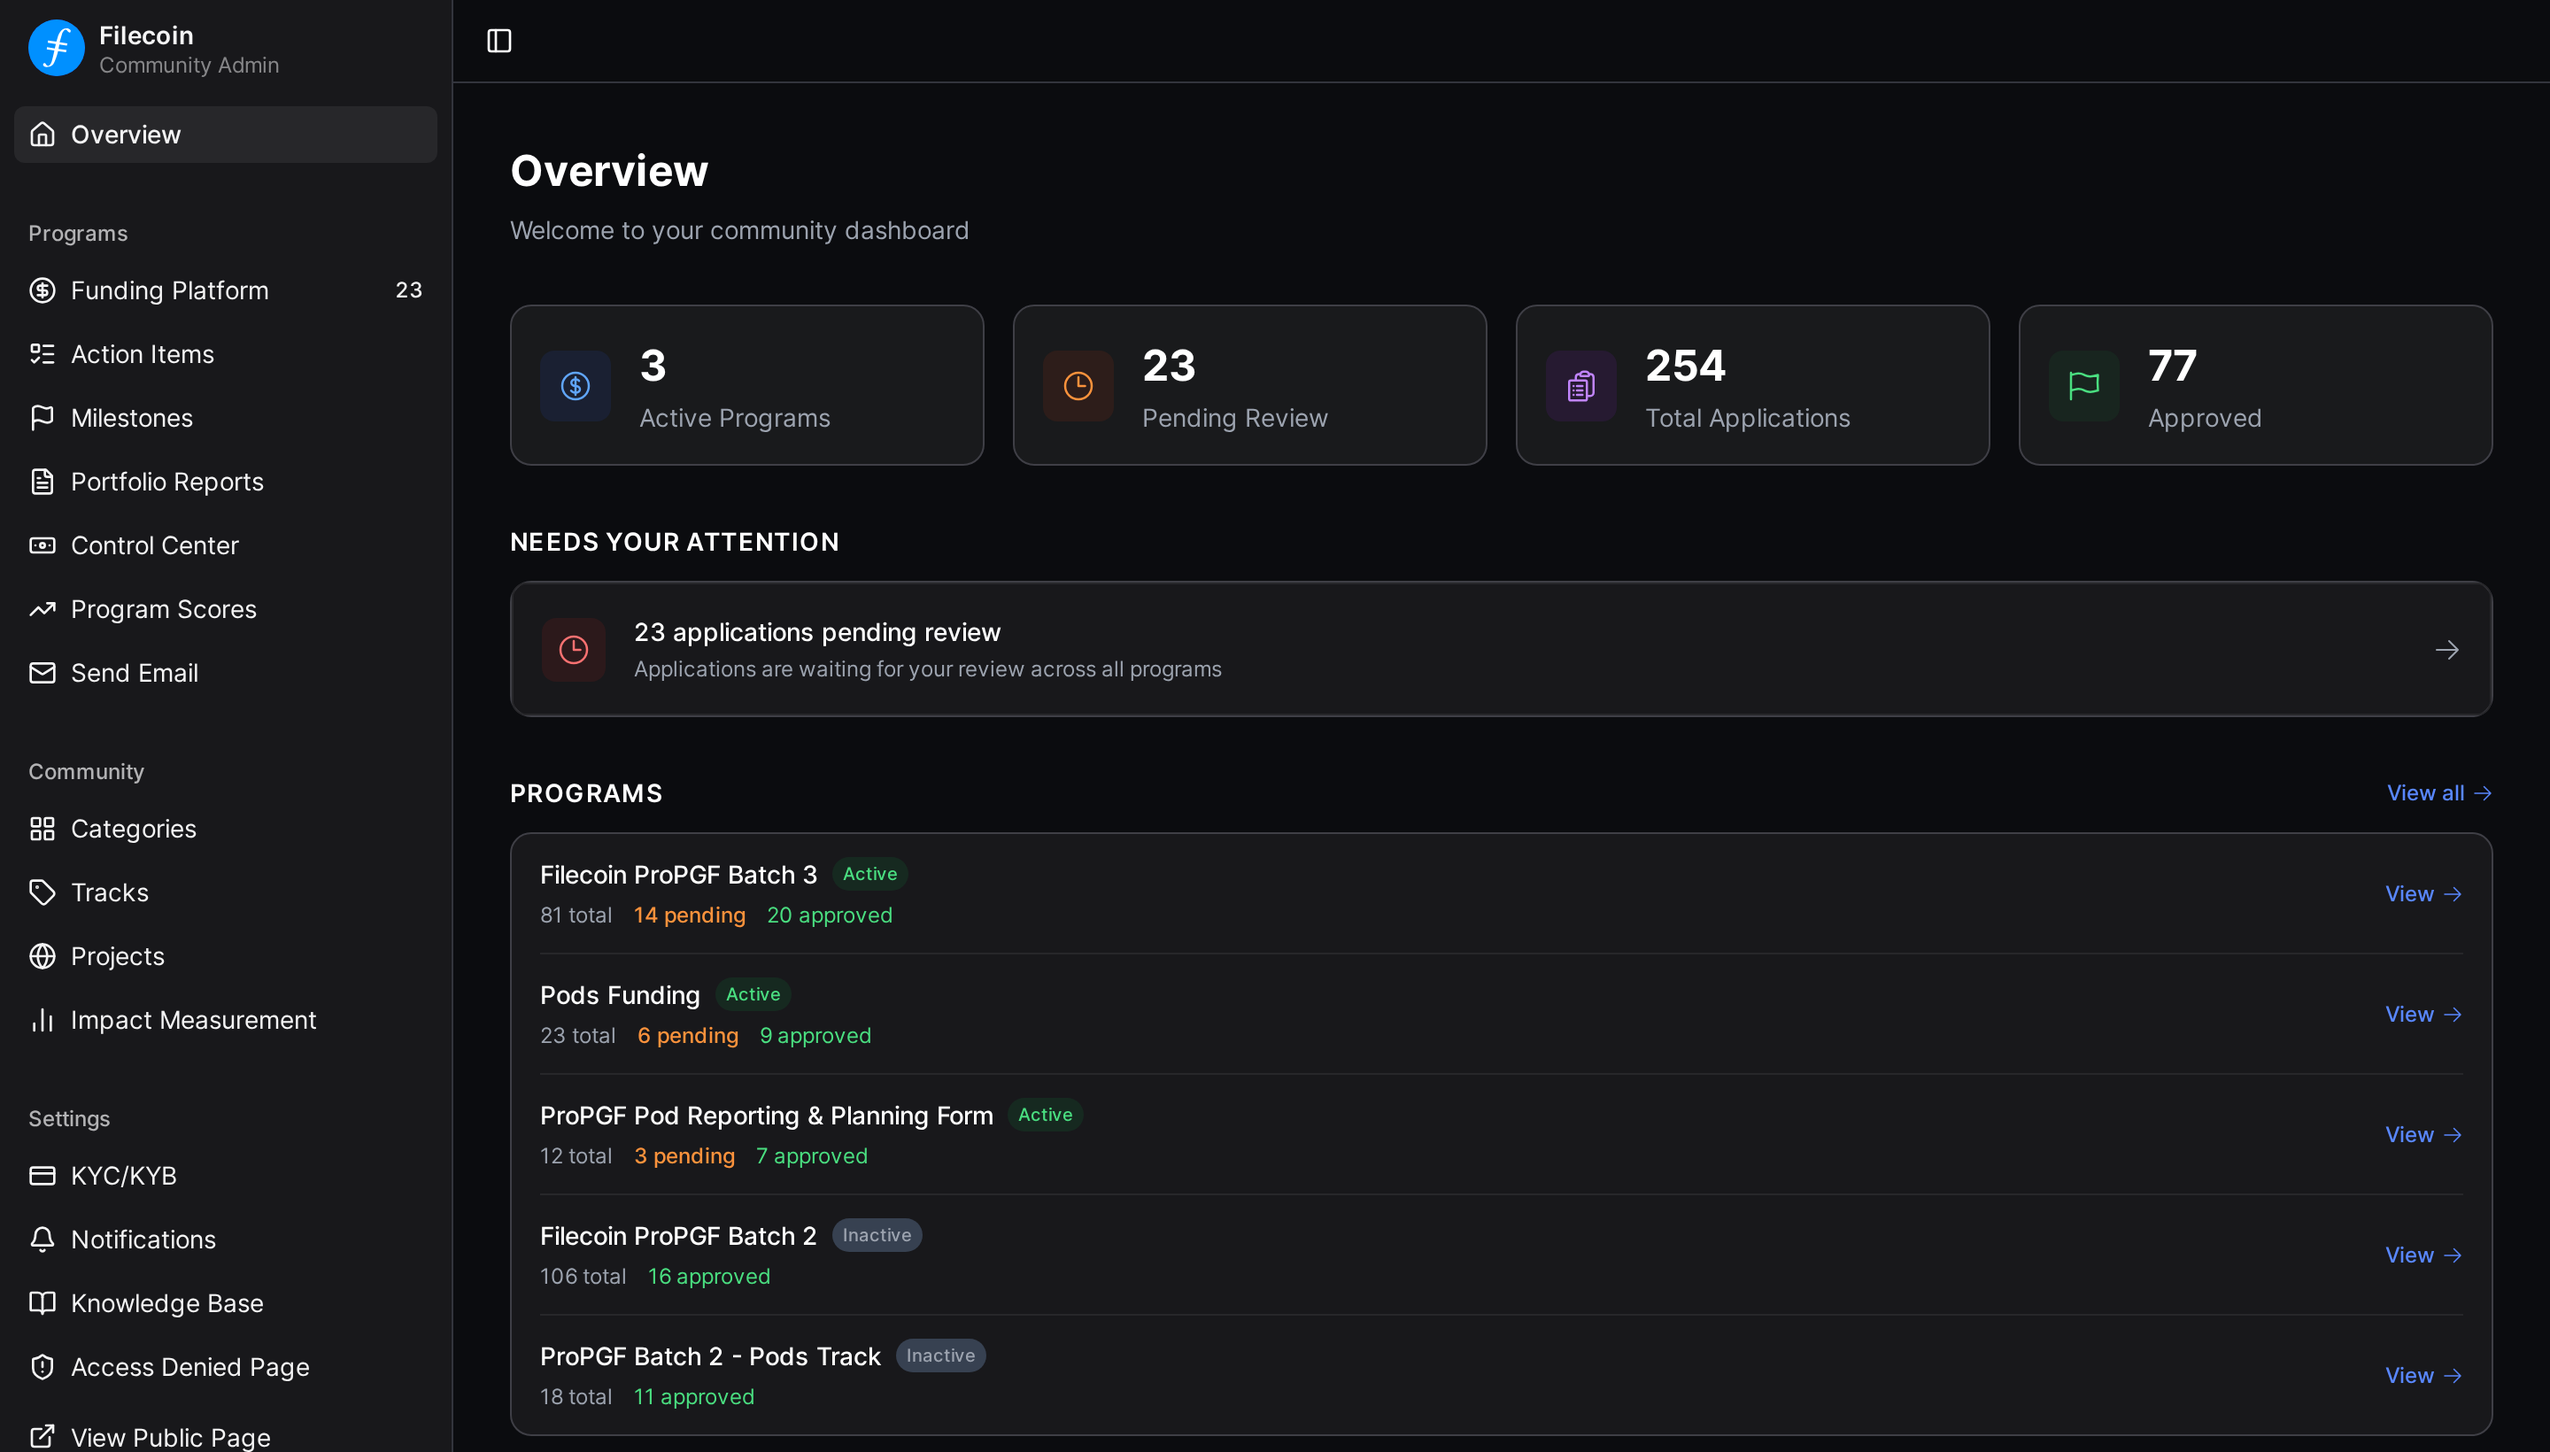
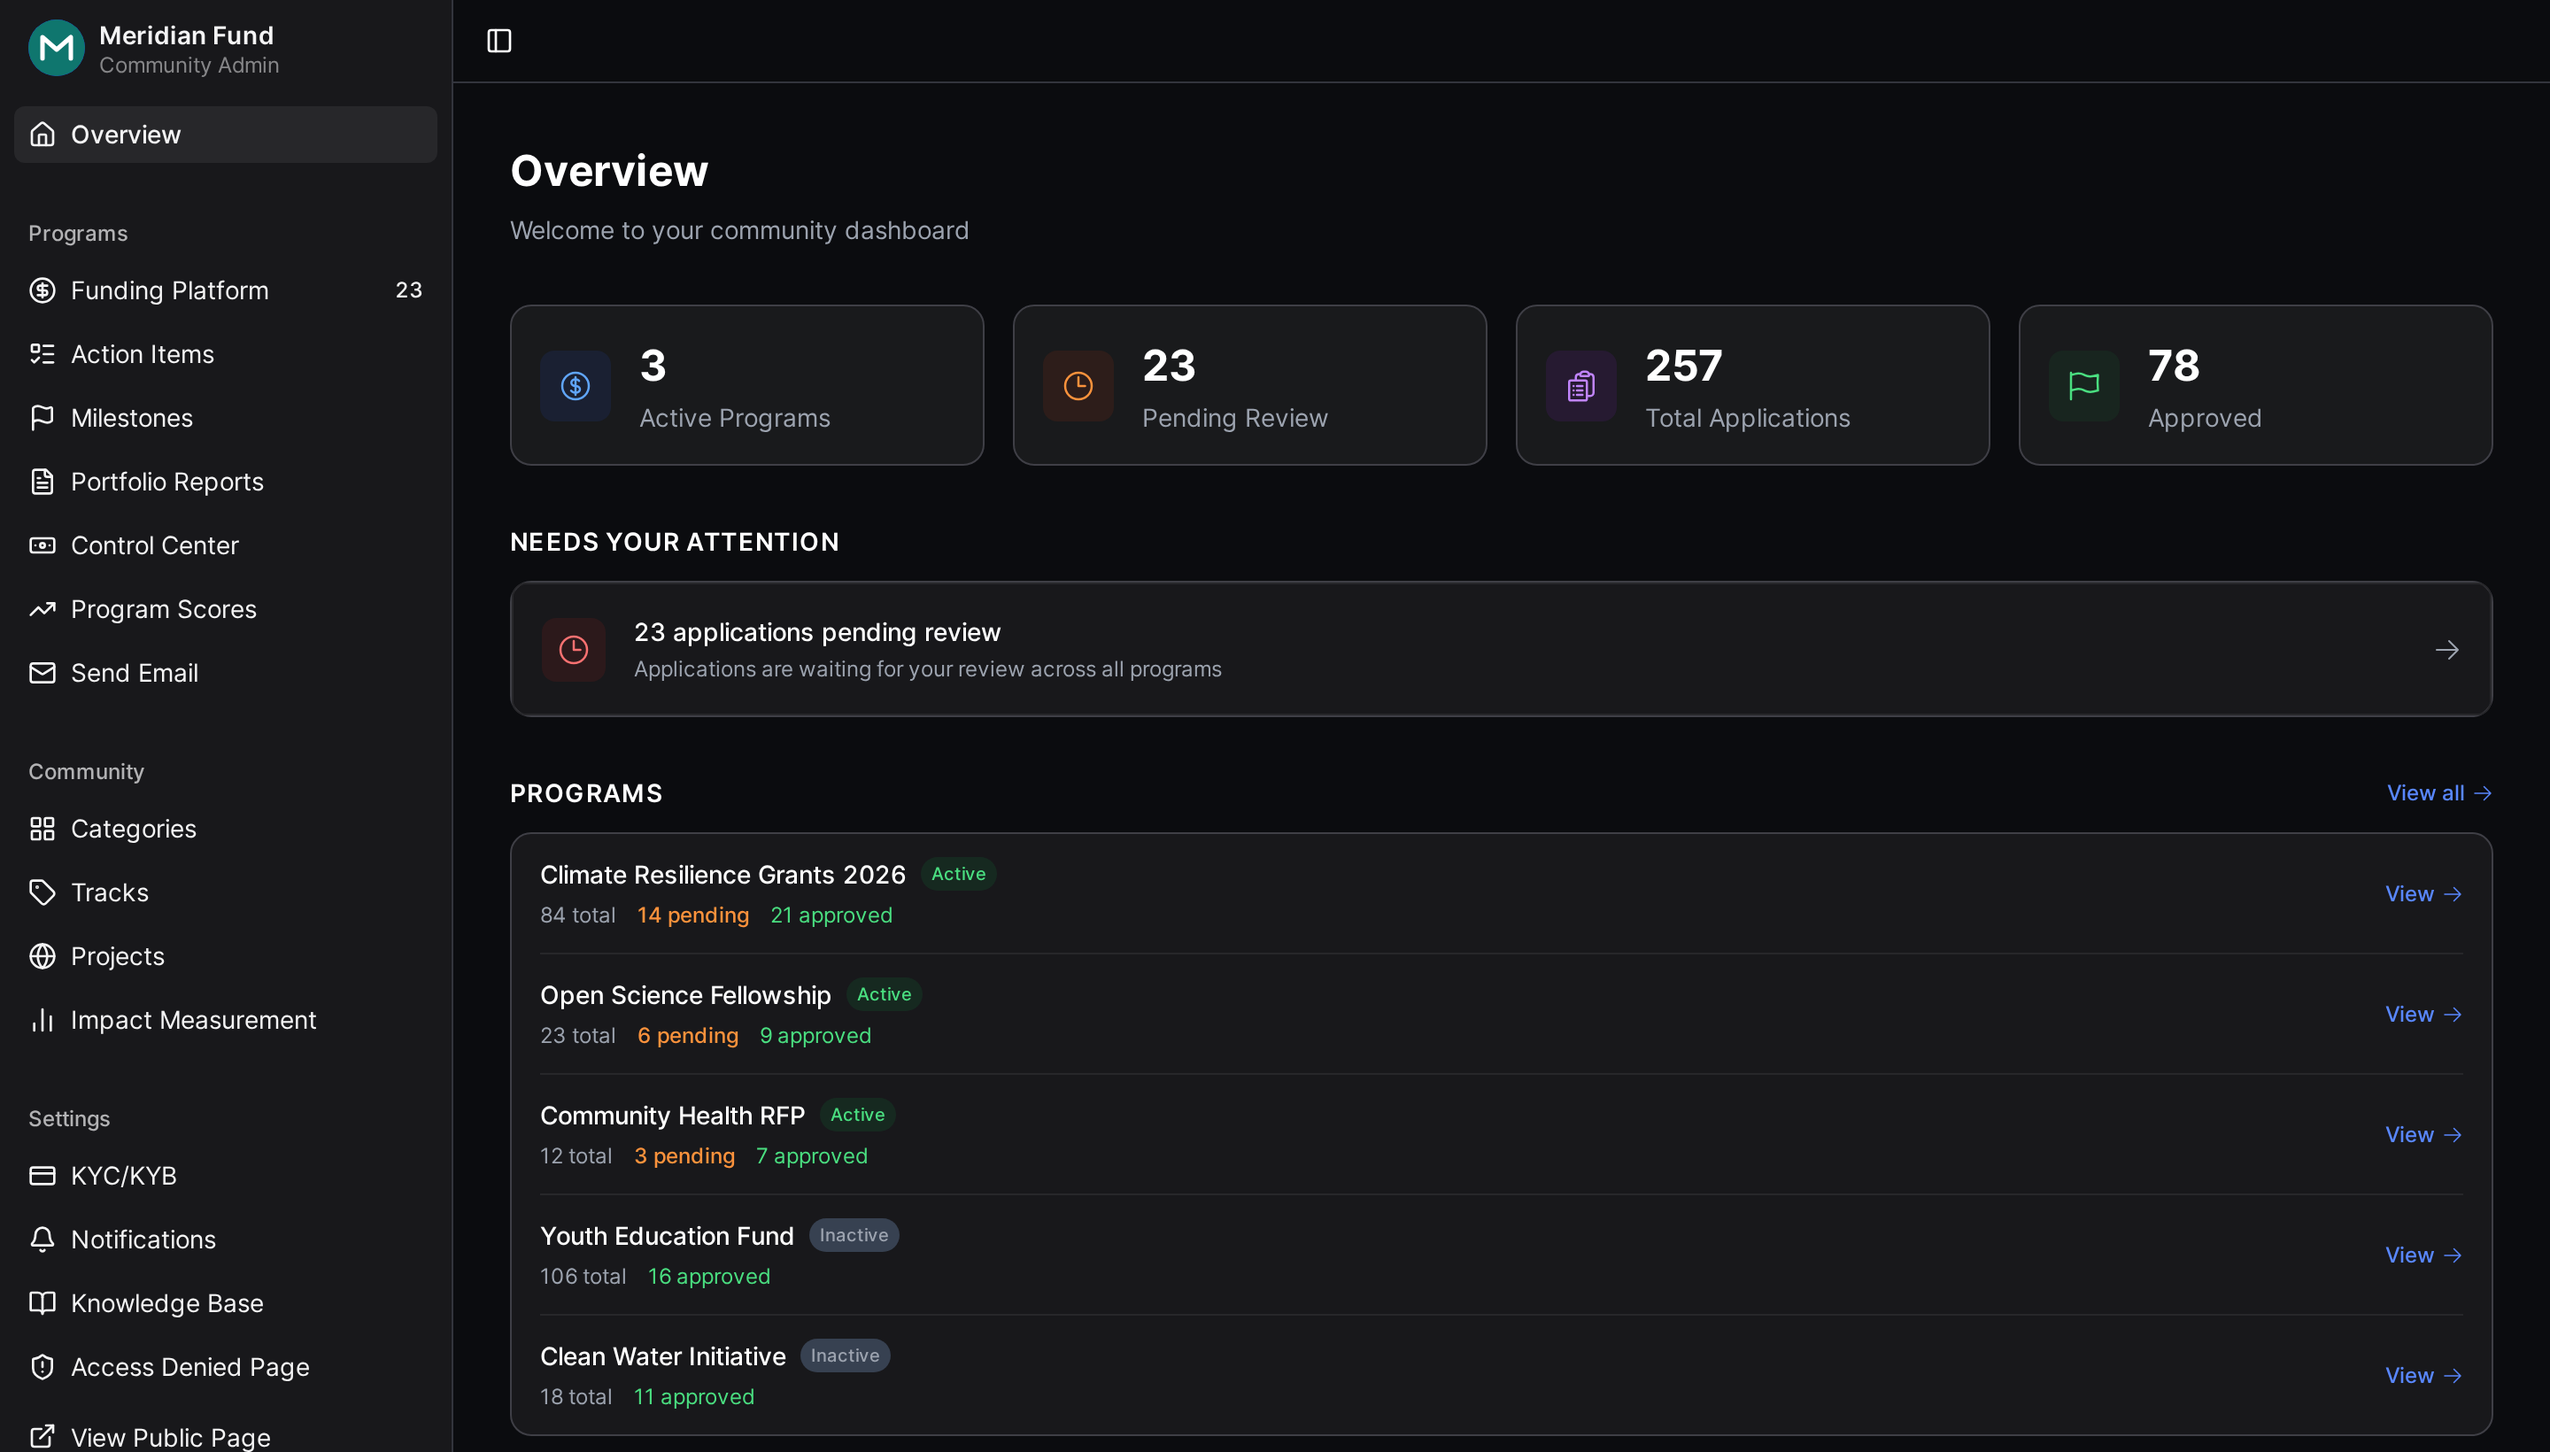
chore(home): use a fictional community in the dashboard screenshot

diff --git a/src/features/foundations/components/dashboard-screenshot.tsx b/src/features/foundations/components/dashboard-screenshot.tsx
@@ -3,8 +3,9 @@ import { cn } from "@/utilities/tailwind";
 
 /**
  * The program manager dashboard (/community/[slug]/manage overview), framed
- * for the homepage hero. Captured from the real UI with Filecoin's program
- * list and illustrative counts; `-drk` variant ships alongside for dark mode.
+ * for the homepage hero. Captured from the real UI with a fictional community
+ * ("Meridian Fund"), invented programs and illustrative counts, so no real
+ * customer appears; `-drk` variant ships alongside for dark mode.
  */
 export function DashboardScreenshot({ className }: { className?: string }) {
   return (
